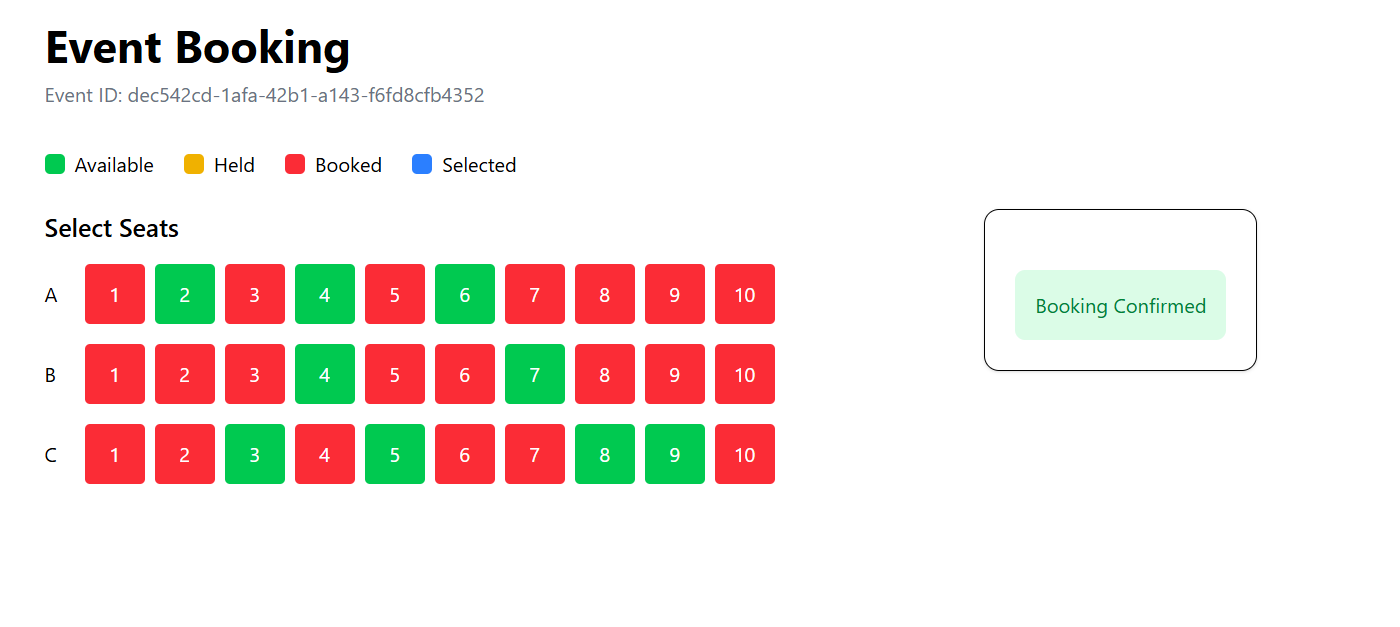
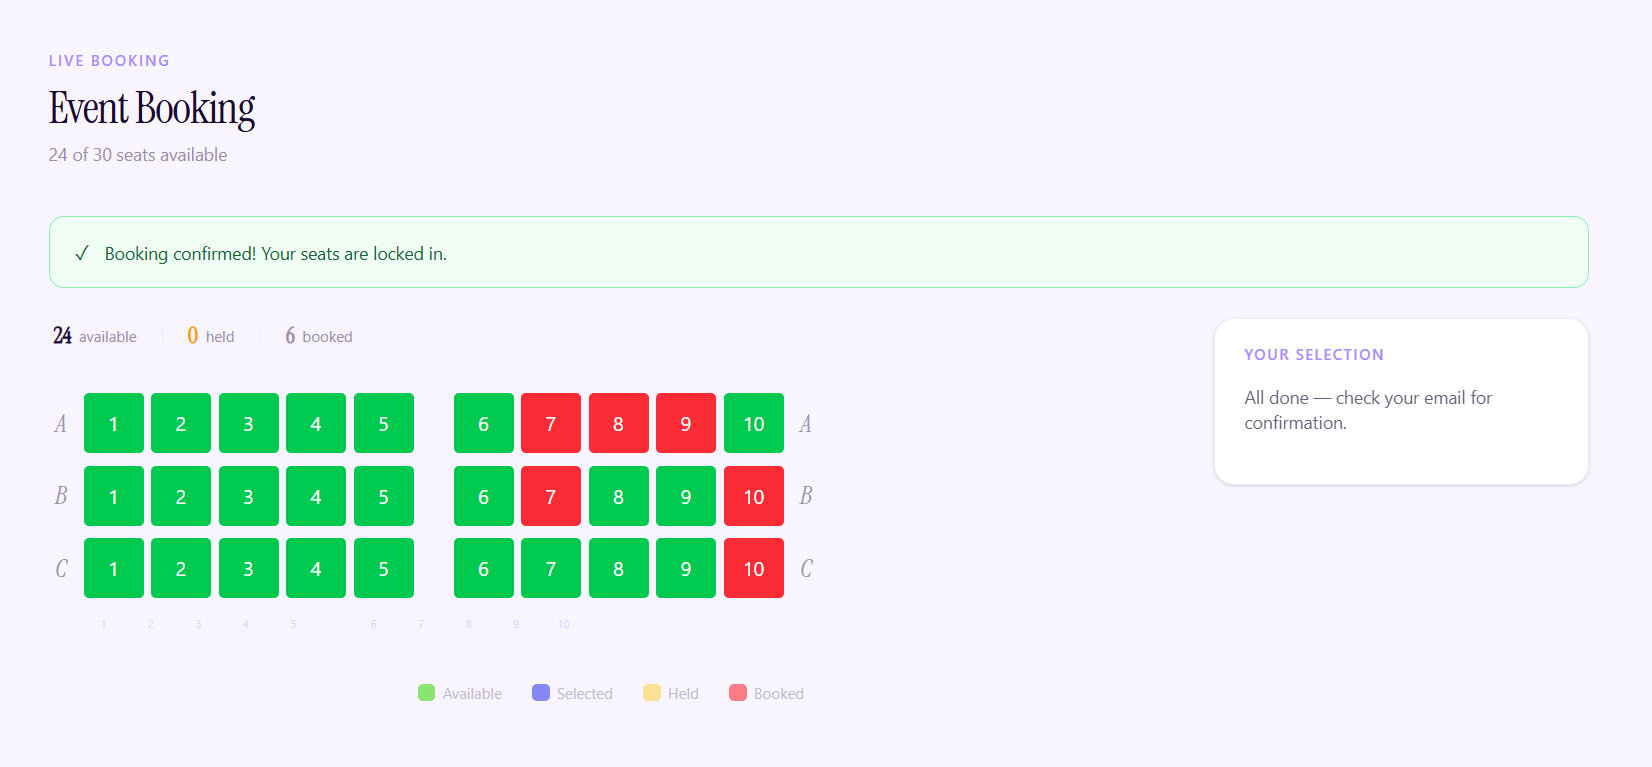
doc upadted

diff --git a/src/app/event/[eventId]/page.tsx b/src/app/event/[eventId]/page.tsx
@@ -112,7 +112,7 @@ const EventPage = () => {
           {/* Timed-out notice */}
           {timedOut && (
             <div className="mb-6 px-5 py-4 rounded-xl bg-[#EDE9FE] border border-[#C4B5FD] text-[#5B21B6] text-sm flex items-center gap-3">
-              <span className="text-base">⏰</span>
+            
               Your reservation expired. Those seats have been released — pick again.
             </div>
           )}

diff --git a/README.md b/README.md
@@ -137,6 +137,8 @@ If another reservation updates the seat first, the transaction fails and the res
 
 
 ## ScreenShots
+### Landing
+![Landing](./public/screenchots/main.png)
 
 ### Seat Selection
 
@@ -149,6 +151,10 @@ If another reservation updates the seat first, the transaction fails and the res
 ### Confirmed Booking
 
 ![Booking](./public/screenchots/booking.png)
+
+### Reservation Expiry
+
+![Reservation-expiry](./public/screenchots/reservation-expiry.png)
 
 ## Tested Scenarios
 